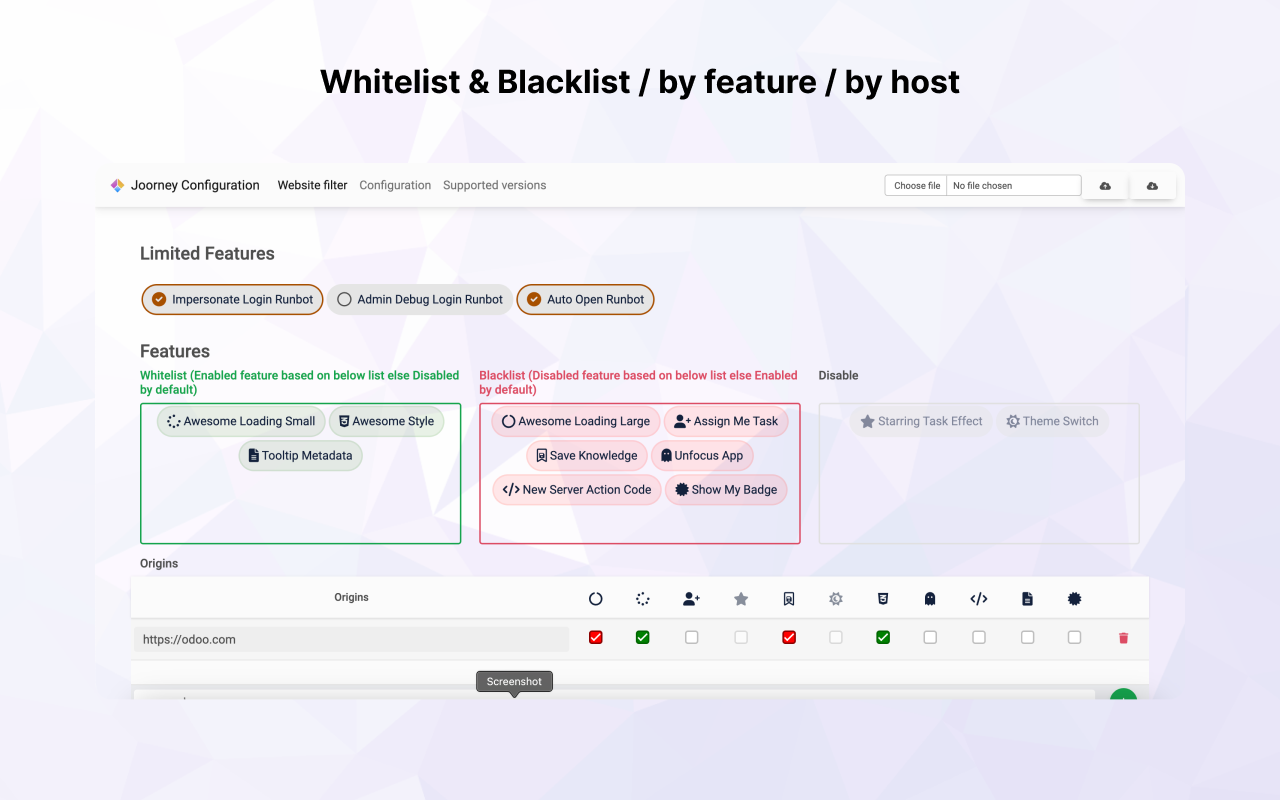
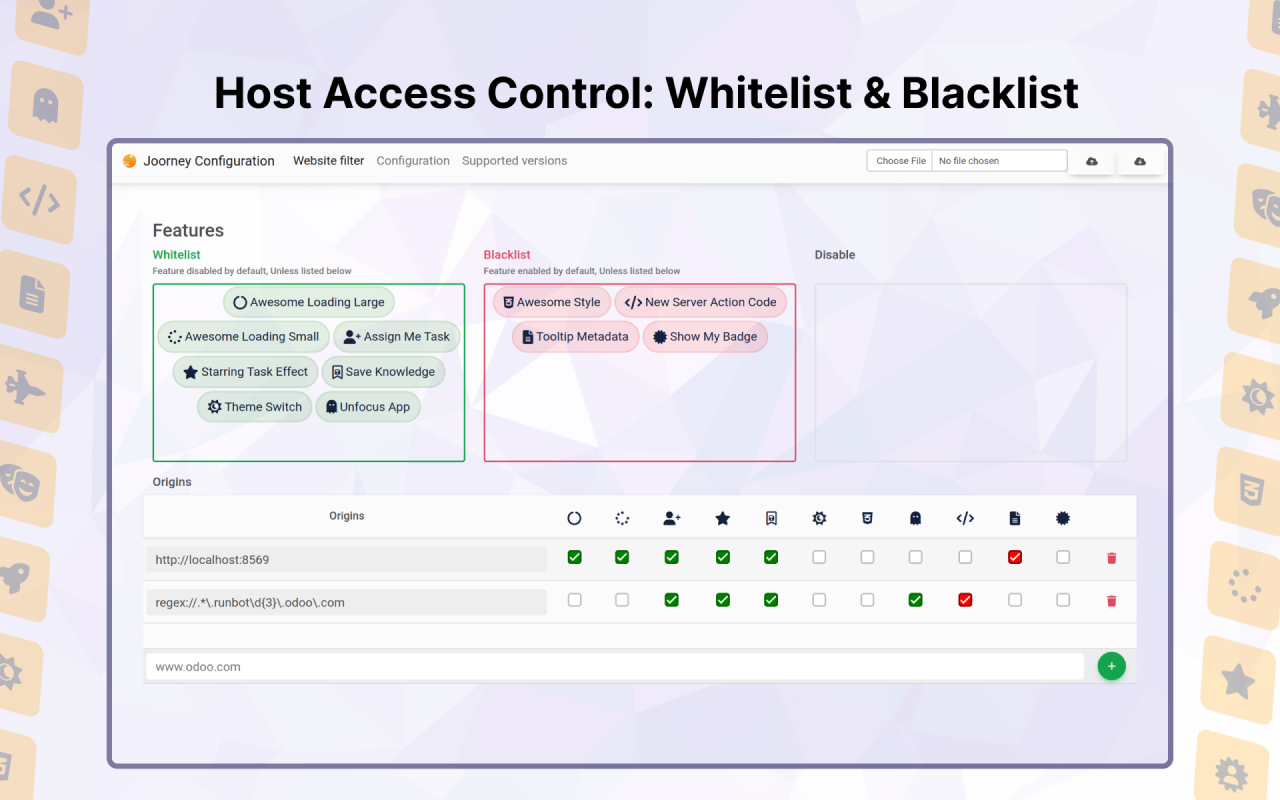
[STORE] Graphics

diff --git a/options/pages/website/index.html b/options/pages/website/index.html
@@ -15,9 +15,13 @@
 <!--#region Features -->
 <div class="row pt-3 pb-0 p-5  mx-0">
     <h4 class="text-start mt-3">Features</h4>
-    <h6 class="col-4 text-success">Whitelist (Enabled feature based on below list else Disabled by default)</h6>
-    <h6 class="col-4 text-danger">Blacklist (Disabled feature based on below list else Enabled by default)</h6>
-    <h6 class="col-4">Disable</h6>
+    <h6 class="col-4 text-success">
+        Whitelist <br /><small class="text-muted"><small>Feature disabled by default, Unless listed below</small></small>
+    </h6>
+    <h6 class="col-4 text-danger">
+        Blacklist <br /><small class="text-muted"><small>Feature enabled by default, Unless listed below</small></small>
+    </h6>
+    <h6 class="col-4">Disable <br /></h6>
     <div class="col-4">
         <div id="qol-whitelist-feature" class="qol-state-feature pb-5 h-100 border border-2 border-success rounded d-flex flex-wrap align-content-start justify-content-center">
             <!-- DYNAMIC CONTENT -->

diff --git a/options/index.js b/options/index.js
@@ -10,7 +10,7 @@ const PAGES = [
     {
         id: 'page-website',
         menu: 'page-website',
-        label: 'Website filter',
+        label: 'Hosts control',
         path: './pages/website/index.html',
         loader: loadWebsitePage,
         default: true,
@@ -18,14 +18,14 @@ const PAGES = [
     {
         id: 'page-configuration',
         menu: 'page-configuration',
-        label: 'Configuration',
+        label: 'Preferences',
         path: './pages/configuration/index.html',
         loader: loadConfigurationPage,
     },
     {
         id: 'page-version',
         menu: 'page-version',
-        label: 'Supported versions',
+        label: 'Versions',
         path: './pages/version/index.html',
         loader: loadVersionPage,
     },

diff --git a/options/pages/version/index.js b/options/pages/version/index.js
@@ -48,7 +48,7 @@ async function loadSupportedFeature(features, supportedVersions) {
 
     const header = stringToHTML(`
         <tr>
-            <th class="text-end">Features</th>
+            <th class="text-end opacity-50">Compatibility</th>
             <th class="text-center" style="width: 32px"><i class="fa-solid fa-icons"></i></th>
             ${SUPPORTED_VERSION.map((v) => `<th class="text-center">${v}</th>`).join('')}
         </tr>

diff --git a/README.md b/README.md
@@ -1,1 +1,1 @@
-<img src="https://repository-images.githubusercontent.com/691932903/0e1bceb5-9382-4fd1-bd81-707732eb9150" />
+<img src="https://github.com/MrSweeter/joorney/assets/22725763/62e252c6-03ab-42f3-9075-e6f9ee527c40" />
